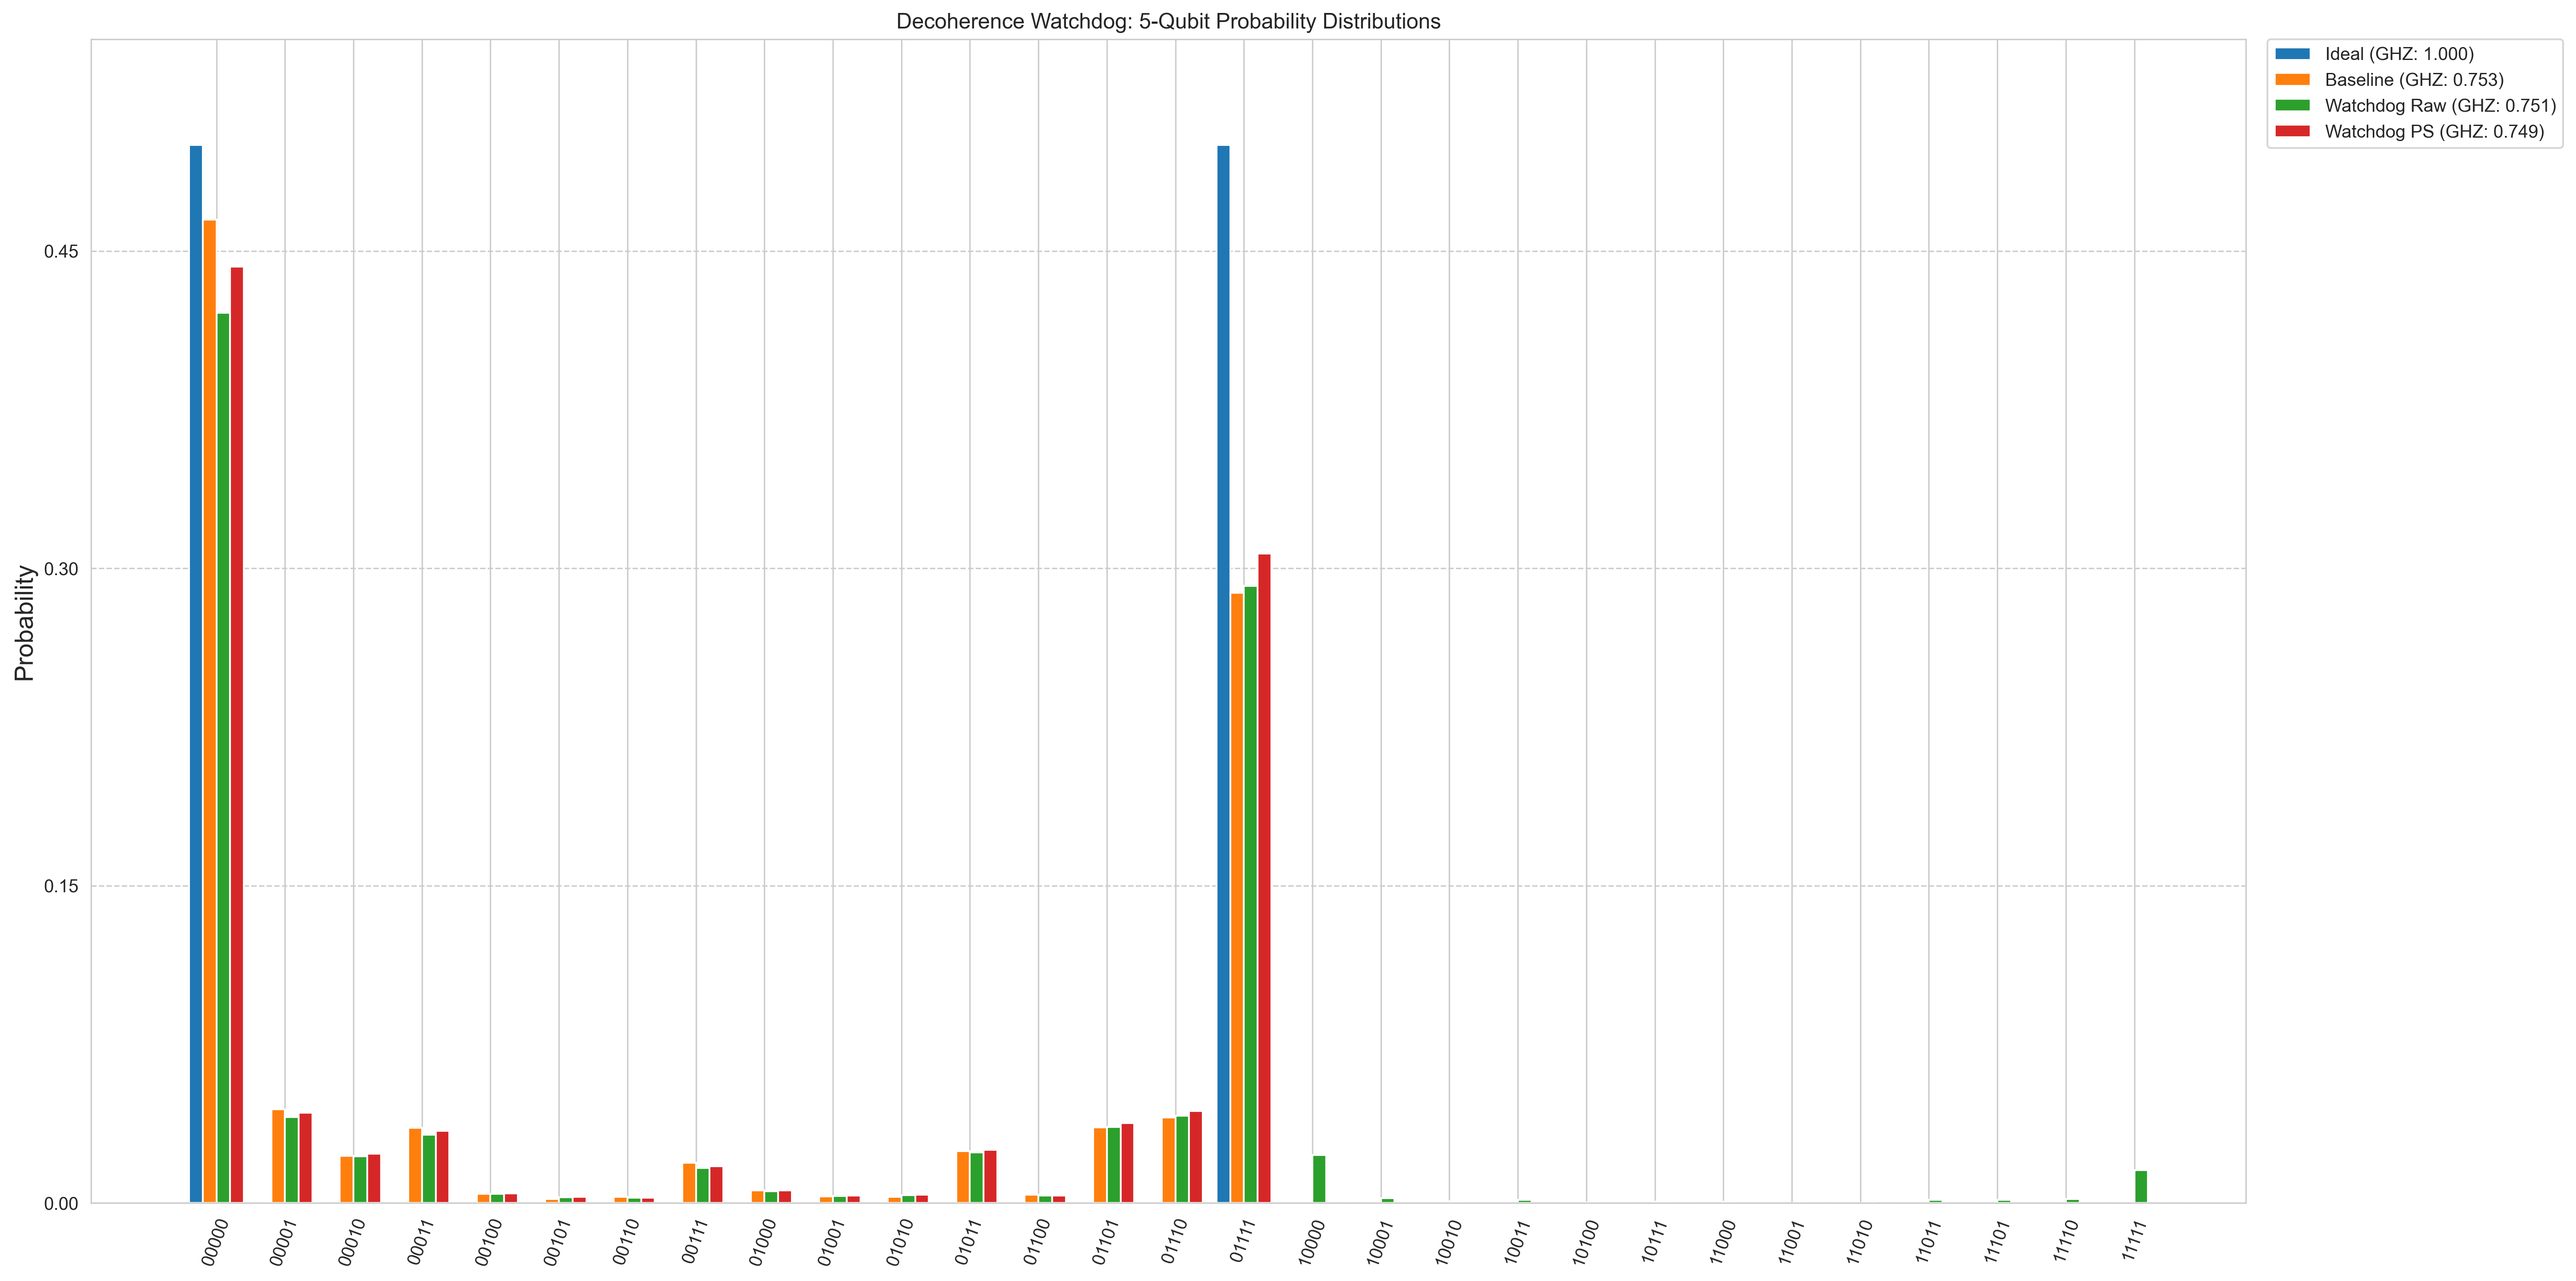
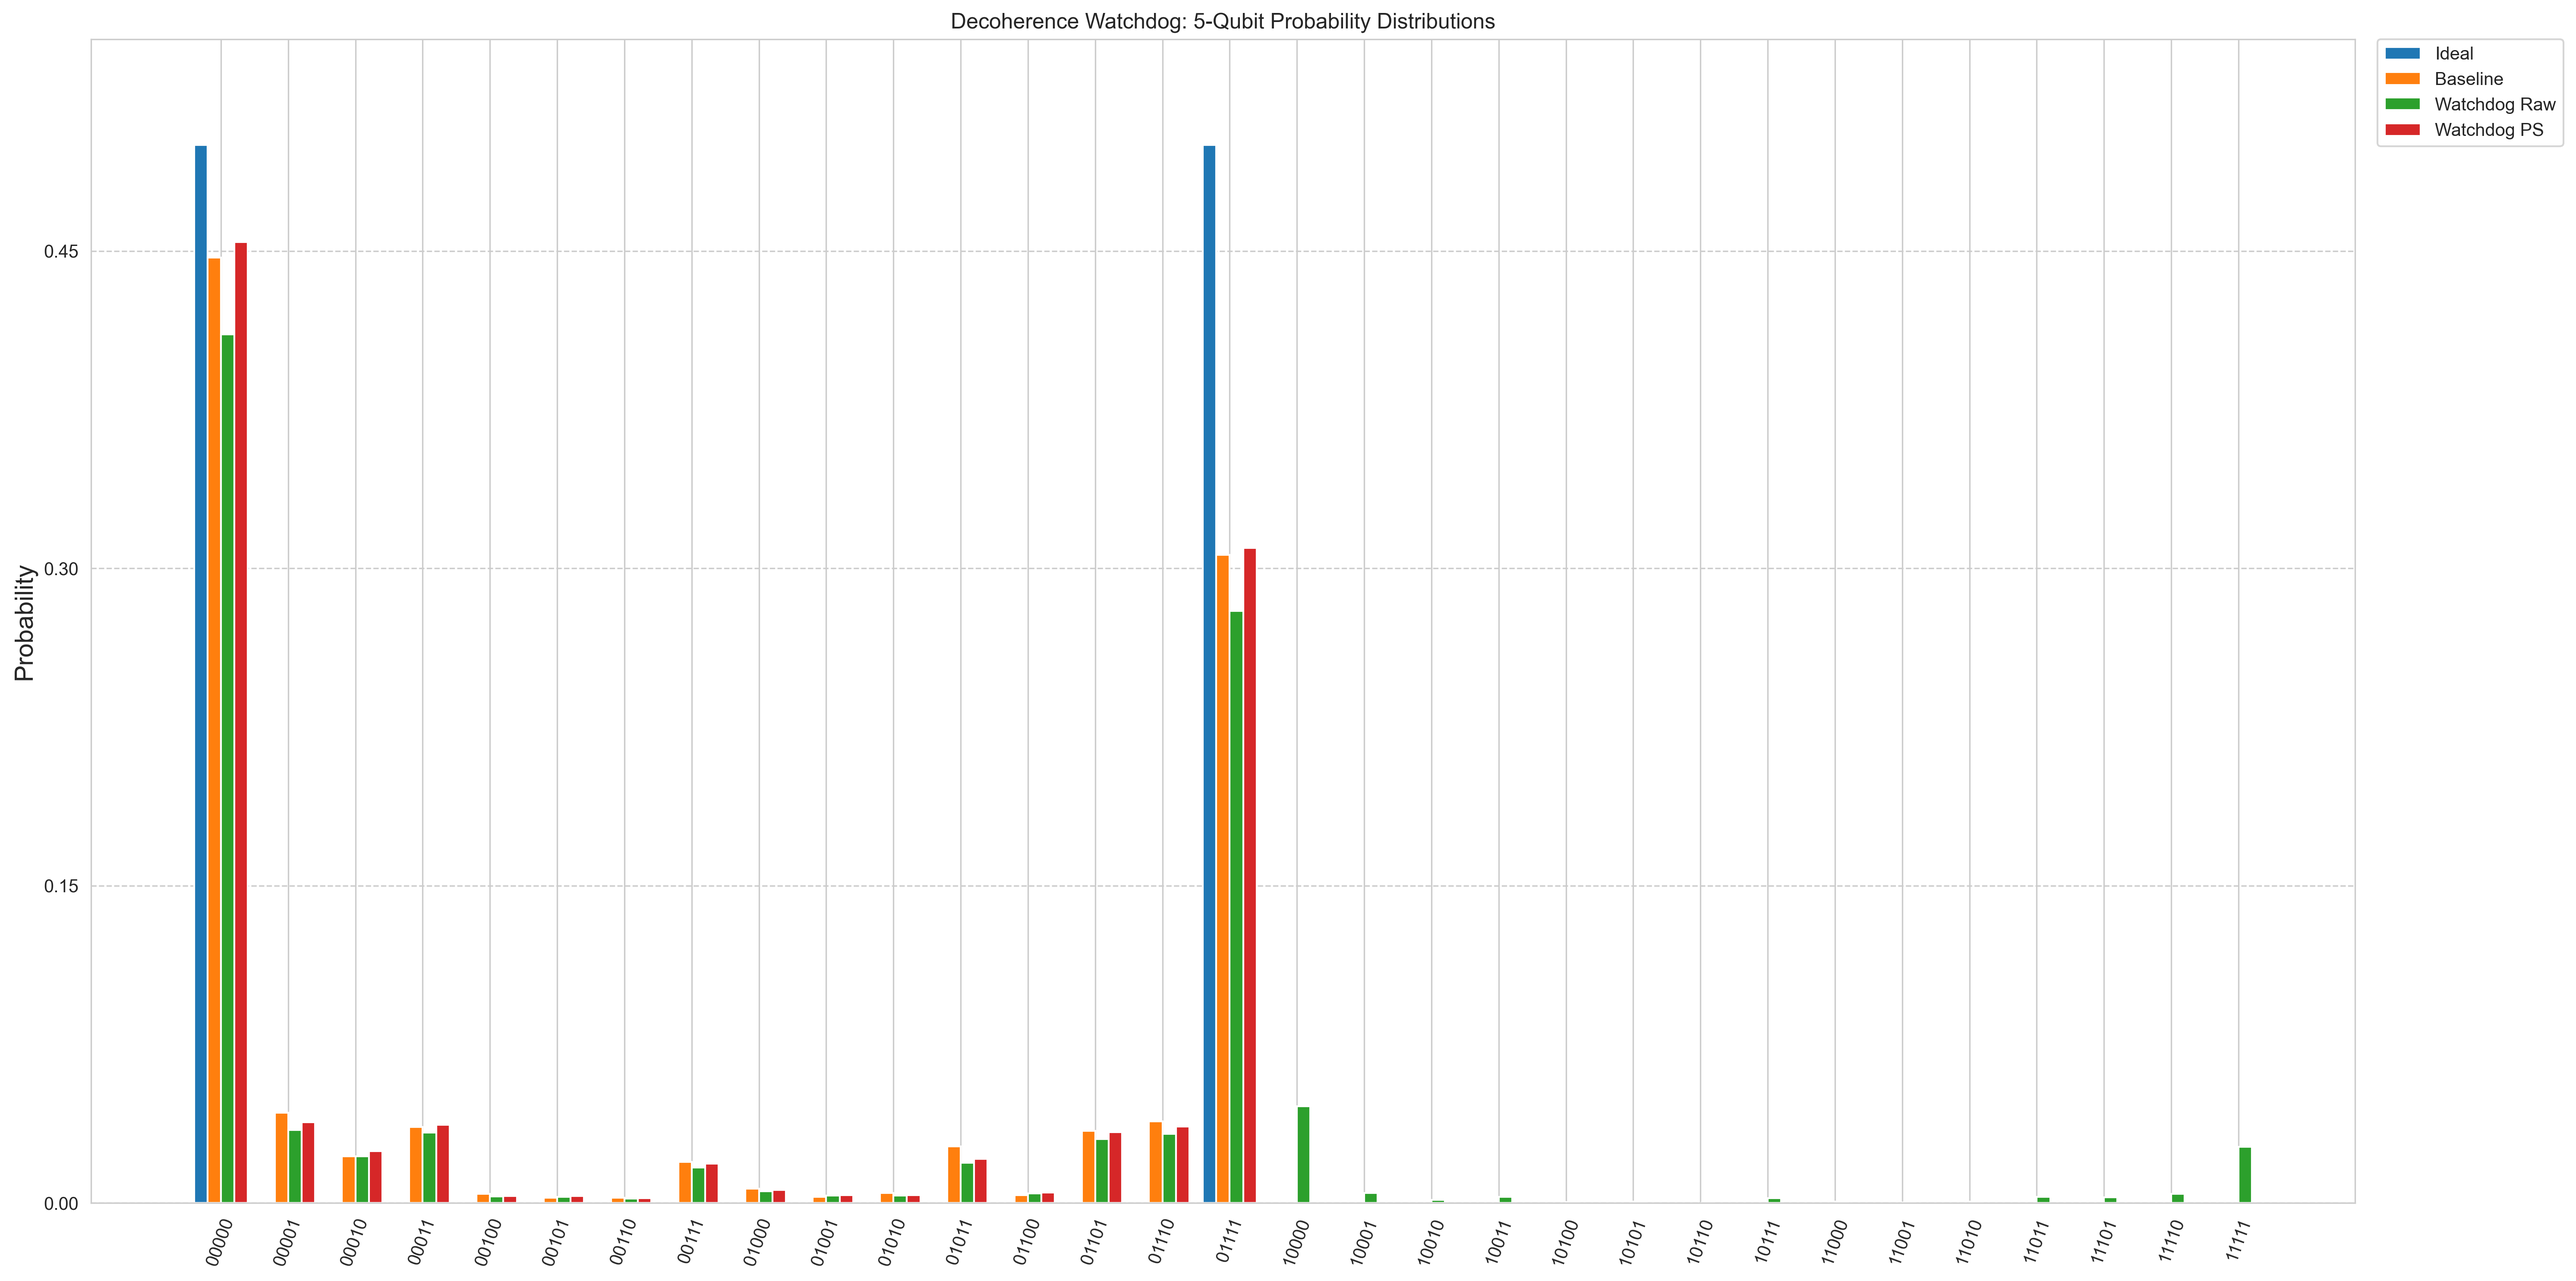
Fully functional 4qubit GHZ circuit demo

diff --git a/Watchdog.py b/Watchdog.py
@@ -12,7 +12,6 @@ import math
 import numpy as np
 import matplotlib.pyplot as plt
 import seaborn as sns
-
 from qiskit import QuantumCircuit, transpile, ClassicalRegister, QuantumRegister
 from qiskit.transpiler import PassManager
 from qiskit.transpiler.basepasses import TransformationPass
@@ -38,18 +37,33 @@ class DecoherenceWatchdog(TransformationPass):
     This version uses modern Qiskit Target and scheduling APIs.
     """
 
-    def __init__(self, backend):
+    def __init__(self, backend, durations=None):
         """
         DecoherenceWatchdog initializer.
 
         Args:
             backend: A Qiskit backend object with a valid Target.
+            durations: InstructionDurations object for getting operation durations.
+                      If None, will try to extract from backend target.
         """
         super().__init__()
         self.backend = backend
         self.target = backend.target
         self.t2_times = {}
         self.dt = self.target.dt
+        self._start_times = None  # External scheduling information can be provided here
+        
+        # Store durations for operation duration calculations
+        if durations is not None:
+            self.durations = durations
+        elif hasattr(backend.target, 'durations'):
+            self.durations = backend.target.durations()
+        else:
+            # Fallback: create basic durations
+            try:
+                self.durations = InstructionDurations.from_backend(backend)
+            except:
+                self.durations = None
 
         if not self.dt:
             raise ValueError("Backend must have 'dt' property for scheduling.")
@@ -77,9 +91,8 @@ class DecoherenceWatchdog(TransformationPass):
         """
         print("[WatchdogPass] Analyzing circuit for vulnerabilities using scheduling information...")
         
-        # 1. Access scheduling information from the property set
-        # ASAPScheduleAnalysis stores timing information in the property set
-        schedule_info = getattr(self.property_set, 'node_start_time', {})
+        # 1. Access scheduling information from property set or external source
+        schedule_info = self._start_times or getattr(self.property_set, 'node_start_time', {})
         if not schedule_info:
             print("[WatchdogPass] Warning: No scheduling information found. Falling back to delay detection.")
             return self._fallback_delay_detection(dag)
@@ -147,17 +160,39 @@ class DecoherenceWatchdog(TransformationPass):
         return self._insert_watchdog_gadget(dag, target_idle_info)
     
     def _get_operation_duration(self, node):
-        """Estimate operation duration in dt units."""
-        # Simple duration estimates - in practice these should come from backend
+        """Get operation duration in dt units using the instruction durations."""
+        if self.durations is None:
+            # Fallback to hardcoded estimates if no durations available
+            duration_map = {
+                'cx': 160, 'x': 35, 'h': 35, 'measure': 5440, 'reset': 840,
+                'rz': 0, 'sx': 35, 'id': 0, 'barrier': 0
+            }
+            op_name = node.op.name.lower()
+            return duration_map.get(op_name, 35)  # Default to single-qubit gate duration
+        
+        if node.op.name == "delay":
+            # Delay duration is directly specified
+            return node.op.duration
+        
+        # Try to get duration from InstructionDurations object
+        unit = "s" if self.durations.dt is None else "dt"
+        
+        try:
+            # Extract qubit indices - simplified approach
+            indices = [i for i in range(len(node.qargs))] if node.qargs else []
+            duration = self.durations.get(node.op.name, indices, unit=unit)
+            
+            if duration is not None:
+                return int(duration)
+        except Exception:
+            pass  # Fall through to fallback
+        
+        # Fallback duration map
         duration_map = {
-            'cx': 160,
-            'x': 35,
-            'h': 35,
-            'measure': 5440,
-            'reset': 840,
+            'cx': 160, 'x': 35, 'h': 35, 'measure': 5440, 'reset': 840,
+            'rz': 0, 'sx': 35, 'id': 0, 'barrier': 0, 'u': 35, 'u3': 35
         }
-        op_name = node.op.name.lower()
-        return duration_map.get(op_name, 35)  # Default to single-qubit gate duration
+        return duration_map.get(node.op.name.lower(), 35)
     
     def _fallback_delay_detection(self, dag: DAGCircuit) -> DAGCircuit:
         """Fallback method that looks for explicit Delay instructions."""
@@ -214,8 +249,17 @@ class DecoherenceWatchdog(TransformationPass):
         after_node = idle_info["after_node"]
         target_qubit = idle_info["qubit"]
         
-        # Insert delay after the specified node
-        dag.apply_operation_after(after_node, delay_op, qargs=[target_qubit])
+        # Insert delay after the specified node - use the correct method name
+        try:
+            # Try the new method name first
+            dag.apply_operation_back(delay_op, qargs=[target_qubit])
+        except AttributeError:
+            try:
+                # Try older method name
+                dag.apply_operation_after(after_node, delay_op, qargs=[target_qubit])
+            except AttributeError:
+                # Fallback: just add to the end
+                dag.apply_operation_back(delay_op, qargs=[target_qubit])
         
         # Now find this delay and replace it with watchdog
         for node in dag.op_nodes():
@@ -518,16 +562,21 @@ def run_benchmark():
     
     # Try to run with scheduling analysis, but fall back if it fails
     try:
-        # First run scheduling analysis
+        # First run scheduling analysis to get timing information
         schedule_analysis_pm = PassManager([ASAPScheduleAnalysis(durations)])
-        scheduled_circuit = schedule_analysis_pm.run(laid_out_circuit)
+        temp_circuit = schedule_analysis_pm.run(laid_out_circuit)
         
-        # Then run watchdog pass with access to scheduling information
-        watchdog_pm = PassManager([DecoherenceWatchdog(backend)])
-        # Transfer the property set from scheduling analysis to watchdog pass
-        watchdog_pm.property_set = schedule_analysis_pm.property_set
+        # Extract the scheduling information from the property set
+        start_times = schedule_analysis_pm.property_set.get('node_start_time', {})
         
-        watchdog_inserted_circuit = watchdog_pm.run(scheduled_circuit)
+        # Now run the watchdog pass on the original circuit with the scheduling info
+        watchdog_pass = DecoherenceWatchdog(backend, durations)
+        # Pass the scheduling information to the watchdog pass
+        if hasattr(watchdog_pass, '_start_times'):
+            watchdog_pass._start_times = start_times
+        
+        watchdog_pm = PassManager([watchdog_pass])
+        watchdog_inserted_circuit = watchdog_pm.run(laid_out_circuit)
         print("   [Pipeline] Successfully used ASAPScheduleAnalysis for idle time detection")
     except Exception as e:
         print(f"   [Pipeline] ASAPScheduleAnalysis failed: {e}")
@@ -535,7 +584,7 @@ def run_benchmark():
         
         # Fallback: run without scheduling analysis
         watchdog_pm = PassManager([
-            DecoherenceWatchdog(backend),
+            DecoherenceWatchdog(backend, durations),
         ])
         watchdog_inserted_circuit = watchdog_pm.run(laid_out_circuit)
 
@@ -560,7 +609,6 @@ def run_benchmark():
     sample_outcomes = list(watchdog_counts.keys())[:5]
     for outcome in sample_outcomes:
         print(f"     {outcome} -> {watchdog_counts[outcome]} counts")
-
 
 
     # D. Post-process watchdog results
@@ -615,63 +663,7 @@ def run_benchmark():
 
     # F. Calculate GHZ state probabilities for detailed analysis
     print("\n--- GHZ State Analysis ---")
-    
-    def calculate_ghz_probabilities(counts, label, herald_filter=None):
-        """Calculate GHZ state probabilities with proper herald handling"""
-        total_shots = sum(counts.values())
-        if not counts or total_shots == 0:
-            print(f"{label}: No valid counts")
-            return 0.0
-        
-        if len(list(counts.keys())[0]) == 4:
-            # 4-qubit data
-            p_0000 = counts.get('0000', 0) / total_shots
-            p_1111 = counts.get('1111', 0) / total_shots
-        else:
-            # 5-qubit data - need to handle herald filtering correctly
-            if herald_filter is not None:
-                # For post-selected case, only consider herald='0' states
-                filtered_counts = {}
-                for outcome, count in counts.items():
-                    herald_bit = outcome[0]  # Herald is leftmost bit
-                    data_bits = outcome[1:]  # Data bits are rightmost 4
-                    if herald_bit == herald_filter:
-                        if data_bits in filtered_counts:
-                            filtered_counts[data_bits] += count
-                        else:
-                            filtered_counts[data_bits] = count
-                
-                filtered_total = sum(filtered_counts.values())
-                if filtered_total == 0:
-                    p_0000 = p_1111 = 0.0
-                else:
-                    p_0000 = filtered_counts.get('0000', 0) / filtered_total
-                    p_1111 = filtered_counts.get('1111', 0) / filtered_total
-            else:
-                # For raw case, sum across all herald values for each data state
-                data_counts = {}
-                for outcome, count in counts.items():
-                    data_bits = outcome[1:]  # Extract data bits
-                    if data_bits in data_counts:
-                        data_counts[data_bits] += count
-                    else:
-                        data_counts[data_bits] = count
-                
-                p_0000 = data_counts.get('0000', 0) / total_shots
-                p_1111 = data_counts.get('1111', 0) / total_shots
-        
-        ghz_fidelity = p_0000 + p_1111
-        print(f"{label}:")
-        print(f"  P(|0000⟩): {p_0000:.4f}")
-        print(f"  P(|1111⟩): {p_1111:.4f}")
-        print(f"  GHZ Fidelity: {ghz_fidelity:.4f}")
-        return ghz_fidelity
-    
-    # Add ideal distribution analysis
-    ideal_ghz_fid = calculate_ghz_probabilities(ideal_distribution, "Ideal (Noise-Free)")
-    baseline_ghz_fid = calculate_ghz_probabilities(baseline_counts, "Baseline")
-    watchdog_raw_ghz_fid = calculate_ghz_probabilities(watchdog_counts, "Watchdog Raw")
-    watchdog_ps_ghz_fid = calculate_ghz_probabilities(watchdog_ps_counts, "Watchdog Post-Selected", herald_filter='0')
+    print("(GHZ analysis will be calculated from table values after table generation)")
 
     # G. Generate comprehensive visualization and analysis
     print("\nG. Generating comprehensive comparison plots and analysis...")
@@ -724,11 +716,12 @@ def run_benchmark():
     print(f"   - Watchdog post-selected shots: {sum(watchdog_ps_counts.values())}")
     
     # Create comprehensive histogram with all normalized distributions including ideal
+    # Note: GHZ values will be calculated from table and updated in the final output
     legend = [
-        f'Ideal (GHZ: {ideal_ghz_fid:.3f})',
-        f'Baseline (GHZ: {baseline_ghz_fid:.3f})',
-        f'Watchdog Raw (GHZ: {watchdog_raw_ghz_fid:.3f})',
-        f'Watchdog PS (GHZ: {watchdog_ps_ghz_fid:.3f})'
+        f'Ideal',
+        f'Baseline', 
+        f'Watchdog Raw',
+        f'Watchdog PS'
     ]
     hist_data = [ideal_5bit_probs, baseline_5bit_probs, watchdog_raw_5bit_probs, watchdog_ps_5bit_probs]
     
@@ -817,6 +810,49 @@ def run_benchmark():
     
     print("-" * 64)
     print(f"{'TOTAL':<8} {'':6} {1.0:<10.4f} {1.0:<10.4f} {1.0:<10.4f} {1.0:<10.4f}")
+    
+    # I. Calculate GHZ state probabilities directly from table values for perfect consistency
+    print("\n--- GHZ State Analysis (from Table Values) ---")
+    
+    # Extract GHZ state probabilities directly from the table data
+    ideal_p_0000 = ideal_probs.get('00000', 0.0)  # herald='0' + data='0000'
+    ideal_p_1111 = ideal_probs.get('01111', 0.0)  # herald='0' + data='1111'
+    ideal_ghz_fid = ideal_p_0000 + ideal_p_1111
+    
+    baseline_p_0000 = baseline_probs.get('00000', 0.0)
+    baseline_p_1111 = baseline_probs.get('01111', 0.0)
+    baseline_ghz_fid = baseline_p_0000 + baseline_p_1111
+    
+    # For raw watchdog: sum herald='0' and herald='1' states for each data pattern
+    raw_p_0000 = raw_probs.get('00000', 0.0) + raw_probs.get('10000', 0.0)
+    raw_p_1111 = raw_probs.get('01111', 0.0) + raw_probs.get('11111', 0.0)
+    watchdog_raw_ghz_fid = raw_p_0000 + raw_p_1111
+    
+    # For post-selected: only herald='0' states (herald='1' states are zero in ps_probs)
+    ps_p_0000 = ps_probs.get('00000', 0.0)
+    ps_p_1111 = ps_probs.get('01111', 0.0)
+    watchdog_ps_ghz_fid = ps_p_0000 + ps_p_1111
+    
+    # Print GHZ analysis with values directly from table
+    print(f"Ideal (Noise-Free):")
+    print(f"  P(|0000⟩): {ideal_p_0000:.4f}")
+    print(f"  P(|1111⟩): {ideal_p_1111:.4f}")
+    print(f"  GHZ Fidelity: {ideal_ghz_fid:.4f}")
+    
+    print(f"Baseline:")
+    print(f"  P(|0000⟩): {baseline_p_0000:.4f}")
+    print(f"  P(|1111⟩): {baseline_p_1111:.4f}")
+    print(f"  GHZ Fidelity: {baseline_ghz_fid:.4f}")
+    
+    print(f"Watchdog Raw:")
+    print(f"  P(|0000⟩): {raw_p_0000:.4f}")
+    print(f"  P(|1111⟩): {raw_p_1111:.4f}")
+    print(f"  GHZ Fidelity: {watchdog_raw_ghz_fid:.4f}")
+    
+    print(f"Watchdog Post-Selected:")
+    print(f"  P(|0000⟩): {ps_p_0000:.4f}")
+    print(f"  P(|1111⟩): {ps_p_1111:.4f}")
+    print(f"  GHZ Fidelity: {watchdog_ps_ghz_fid:.4f}")
     
     print(f"\nLegend:")
     print(f"* = GHZ states (|0000⟩ or |1111⟩)")
